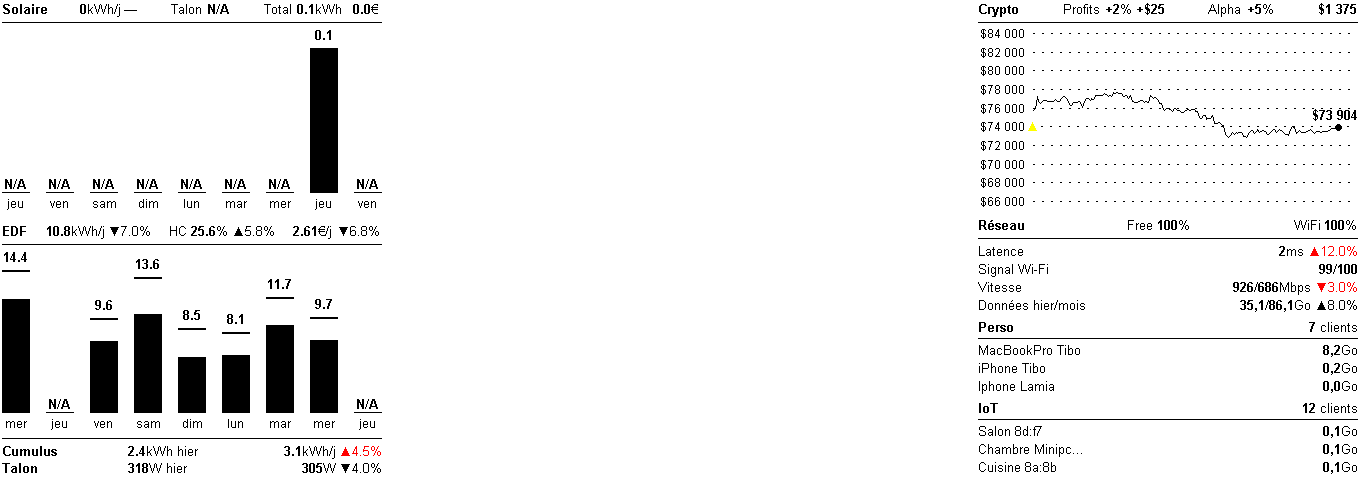
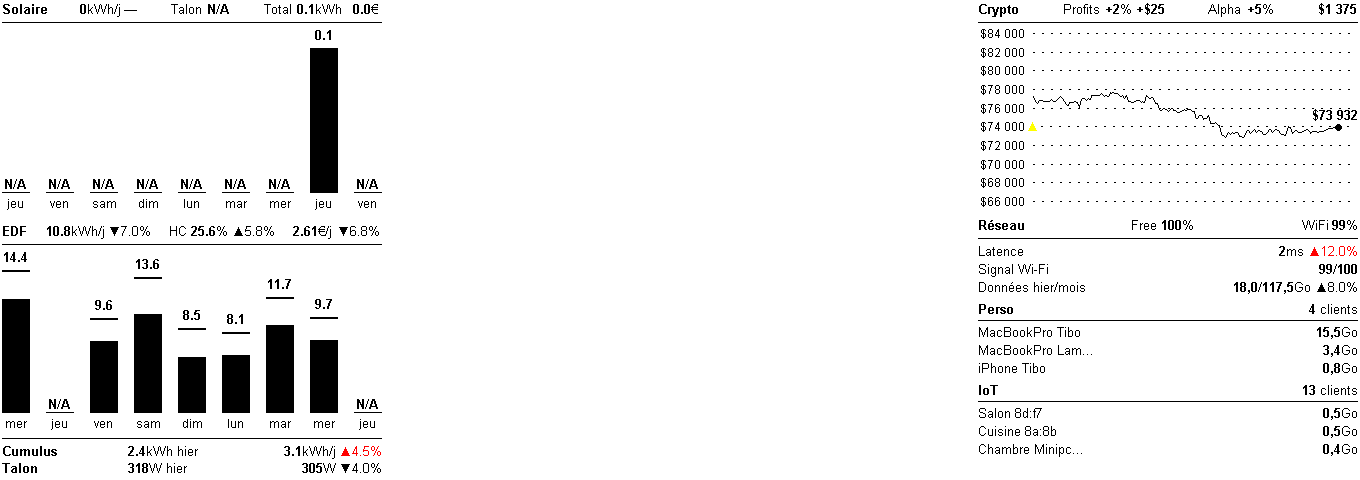
fix(unifi): map Réseau panel to the real gateway payload
The aggregated-dashboard payload from the UCG Ultra has a different shape
than the code assumed, so latency, month usage and the top-client traffic
all resolved to their defaults (0). Re-map every field to the real paths:

- ISP name: wan_routability_info[0].isp_name
- ISP health %: fraction of internet.health_history samples without downtime
- latency: average avg_latency_ms over wan_activity WAN history
- Wi-Fi %: wifi_technology satisfaction, weighted by station count
- month usage: summed from the daily.gw report (dashboard has no monthly counter)
- top clients: rx_bytes + tx_bytes (active-clients has no usage_bytes)

Drop the Vitesse row: the gateway returns isp_metrics: no_data (no speed
test), so the field had no source. Update the preview sample accordingly.

diff --git a/app/integrations/unifi/__init__.py b/app/integrations/unifi/__init__.py
@@ -33,7 +33,6 @@ _last_unifi_time = ""
 # Snapshot columns that carry a ▲▼ trend, paired with the panel key they fill.
 _TREND_COLUMNS = (
     ("usage_bytes", "usage_trend"),
-    ("speed_dl", "speed_trend"),
     ("latency_ms", "latency_trend"),
     ("isp_pct", "isp_trend"),
     ("wifi_pct", "wifi_trend"),
@@ -95,9 +94,9 @@ def _snapshot(snap: dict):
     conn = db.connect()
     conn.execute(
         """INSERT OR REPLACE INTO daily_unifi
-           (date, usage_bytes, speed_dl, latency_ms, isp_pct, wifi_pct, fetched_at)
-           VALUES (?, ?, ?, ?, ?, ?, ?)""",
-        (today, snap.get("usage_bytes"), snap.get("speed_dl"), snap.get("latency_ms"),
+           (date, usage_bytes, latency_ms, isp_pct, wifi_pct, fetched_at)
+           VALUES (?, ?, ?, ?, ?, ?)""",
+        (today, snap.get("usage_bytes"), snap.get("latency_ms"),
          snap.get("isp_pct"), snap.get("wifi_pct"), now),
     )
     conn.commit()
@@ -155,13 +154,18 @@ def _short(name: str, limit: int = 15) -> str:
     return name if len(name) <= limit else name[: limit - 1] + "…"
 
 
+def _client_bytes(c: dict) -> int:
+    """Session traffic for a client (rx+tx); active-clients has no usage_bytes."""
+    return int((c.get("rx_bytes", 0) or 0) + (c.get("tx_bytes", 0) or 0))
+
+
 def _network(clients: list, ssid: str, label: str) -> dict:
     """Client count + top-3 by total traffic for one SSID (wireless only)."""
     members = [c for c in clients if not c.get("is_wired") and c.get("essid") == ssid]
-    members.sort(key=lambda c: c.get("usage_bytes", 0) or 0, reverse=True)
+    members.sort(key=_client_bytes, reverse=True)
     top = [
         (_short(c.get("display_name") or c.get("hostname") or c.get("mac", "?")),
-         _gb(c.get("usage_bytes", 0)))
+         _gb(_client_bytes(c)))
         for c in members[:3]
     ]
     return {"label": label, "count": len(members), "top": top}
@@ -179,44 +183,48 @@ def build_unifi_panel(raw: dict, ssids: dict) -> dict | None:
     if not isinstance(dash, dict) or not isinstance(clients, list):
         return None
 
-    # --- Internet (ISP) quality: WAN uptime over the window + link state.
-    isp_name = (_dig(dash, "wan", "wan_details", 0, "isp", "name", default="") or "").split(" ")[0]
-    link_up = _dig(dash, "wan", "wan_details", 0, "status", "up", default=True)
-    uptime = _dig(dash, "wan_history", "wan_history_details", 0, "uptime")
-    isp_pct = round(uptime) if uptime is not None else (100 if link_up else 0)
+    # --- Internet (ISP): provider name + health from the routability widget and
+    # the per-sample health history (each sample flags WAN downtime over the
+    # dashboard's ~24h window).
+    isp_name = (_dig(dash, "wan_routability_info", 0, "isp_name", default="") or "").split(" ")[0]
+    history = _dig(dash, "internet", "health_history", default=[]) or []
+    link_up = not (history[-1].get("wan_downtime") if history else False)
+    if history:
+        good = sum(1 for h in history if not h.get("wan_downtime"))
+        isp_pct = round(good / len(history) * 100)
+    else:
+        isp_pct = 100 if link_up else 0
     isp_bad = (not link_up) or isp_pct < HEALTH_BAD_PCT
 
-    # --- Internet latency: worst service ping, else the speed-test latency.
-    lats = [s.get("latency") for s in
-            (_dig(dash, "wan", "wan_details", 0, "stats", "service_latencies", default=[]) or [])
-            if s.get("latency") is not None]
-    speed = next((d for d in (_dig(dash, "speed_test", "data", default=[]) or [])
-                  if d.get("interface_name")), {})
-    latency_ms = max(lats) if lats else (speed.get("latency_ms", 0) or 0)
+    # --- Internet latency: average WAN latency over the dashboard window.
+    wan_hist = _dig(dash, "wan_activity", "activity_by_network_group", "WAN", "history",
+                    default=[]) or []
+    lats = [h.get("avg_latency_ms") for h in wan_hist if h.get("avg_latency_ms") is not None]
+    latency_ms = round(sum(lats) / len(lats)) if lats else 0
 
-    # --- Speed test (last successful run): download / upload Mbps.
-    speed_dl = round(speed.get("download_mbps", 0) or 0)
-    speed_ul = round(speed.get("upload_mbps", 0) or 0)
-
-    # --- Wi-Fi quality: weakest connectivity ratio over all radios.
-    attempts = next((rc.get("attempts", {}) for rc in
-                     (_dig(dash, "wifi_connectivity", "radio_connectivity", default=[]) or [])
-                     if rc.get("radio_filter") == "all"), {})
-    ratios = [attempts.get(k) for k in
-              ("success_ratio", "association_ratio", "authentication_ratio", "dhcp_ratio", "dns_ratio")
-              if attempts.get(k) is not None]
-    wifi_pct = round(min(ratios)) if ratios else 100
+    # --- Wi-Fi quality: per-standard satisfaction averaged, weighted by the
+    # number of stations (a lightly-used standard shouldn't drag the figure down).
+    wt = [s for s in (_dig(dash, "wifi_technology", "summary", default=[]) or [])
+          if s.get("satisfaction") is not None]
+    sta_total = sum(s.get("num_sta", 0) or 0 for s in wt)
+    if sta_total:
+        wifi_pct = round(sum(s["satisfaction"] * (s.get("num_sta", 0) or 0) for s in wt) / sta_total)
+    elif wt:
+        wifi_pct = round(sum(s["satisfaction"] for s in wt) / len(wt))
+    else:
+        wifi_pct = 100
     wifi_bad = wifi_pct < HEALTH_BAD_PCT
     # Detailed Wi-Fi quality: the average per-client experience score (0-100).
     exp = [c.get("wifi_experience_score") for c in clients
            if not c.get("is_wired") and c.get("wifi_experience_score")]
     wifi_exp_text = f"{round(sum(exp) / len(exp))}/100" if exp else "—"
 
-    # --- Data usage: yesterday (daily report, best-effort) / current month.
-    month_bytes = _dig(dash, "wan", "wan_details", 0, "stats", "monthly_bytes", default=0)
-    yesterday_bytes = _yesterday_wan_bytes(raw.get("daily"))
-    if yesterday_bytes is None:  # report unavailable -> rolling 24h window from the dashboard
-        summary = _dig(dash, "wan_activity", "total_activity", "summary", default={})
+    # --- Data usage: yesterday + current-month total, both from the daily report
+    # (the aggregated dashboard only covers a 24h window, no monthly counter).
+    yesterday_bytes, month_bytes = _usage_from_daily(raw.get("daily"))
+    if yesterday_bytes is None:  # report unavailable -> 24h WAN total from the dashboard
+        summary = _dig(dash, "wan_activity", "activity_by_network_group", "WAN", "summary",
+                       default={})
         yesterday_bytes = (summary.get("rx_bytes", 0) or 0) + (summary.get("tx_bytes", 0) or 0)
 
     return {
@@ -225,33 +233,42 @@ def build_unifi_panel(raw: dict, ssids: dict) -> dict | None:
         "wifi_pct": wifi_pct, "wifi_bad": wifi_bad, "wifi_trend": None,
         "wifi_exp_text": wifi_exp_text,
         # Detail rows: numeric strings only — the renderer appends the unit.
-        "latency_val": str(round(latency_ms)), "latency_trend": None,
-        "speed_dl": str(speed_dl), "speed_ul": str(speed_ul), "speed_trend": None,
+        "latency_val": str(latency_ms), "latency_trend": None,
         "usage_hier": _gb(yesterday_bytes), "usage_mois": _gb(month_bytes), "usage_trend": None,
         "iot": _network(clients, ssids["iot"], "IoT"),
         "main": _network(clients, ssids["main"], "Perso"),
         # Raw values snapshotted by attach() to compute the 7-day trends.
         "_snap": {
-            "usage_bytes": yesterday_bytes, "speed_dl": speed_dl,
+            "usage_bytes": yesterday_bytes,
             "latency_ms": latency_ms, "isp_pct": isp_pct, "wifi_pct": wifi_pct,
         },
     }
 
 
-def _yesterday_wan_bytes(daily) -> int | None:
-    """Sum of WAN tx+rx for yesterday from the daily.gw report, or None."""
+def _usage_from_daily(daily) -> tuple[int | None, int]:
+    """(yesterday, current-month total) WAN tx+rx bytes from the daily.gw report.
+
+    yesterday is None when the report is unavailable (caller falls back); the
+    month total is the running sum of every day in the current month (today
+    included, partial)."""
     rows = (daily or {}).get("data") if isinstance(daily, dict) else None
     if not rows:
-        return None
-    yesterday = (datetime.now(PARIS_TZ).date() - timedelta(days=1))
+        return None, 0
+    today = datetime.now(PARIS_TZ).date()
+    yesterday = today - timedelta(days=1)
+    y_bytes: int | None = None
+    month_total = 0
     for row in rows:
         ts = row.get("time")
         if ts is None:
             continue
         day = datetime.fromtimestamp(ts / 1000, PARIS_TZ).date()
+        day_bytes = int((row.get("wan-tx_bytes", 0) or 0) + (row.get("wan-rx_bytes", 0) or 0))
         if day == yesterday:
-            return int((row.get("wan-tx_bytes", 0) or 0) + (row.get("wan-rx_bytes", 0) or 0))
-    return None
+            y_bytes = day_bytes
+        if (day.year, day.month) == (today.year, today.month):
+            month_total += day_bytes
+    return y_bytes, month_total
 
 
 def status() -> dict:

diff --git a/scripts/gen_preview.py b/scripts/gen_preview.py
@@ -66,15 +66,14 @@ if data.get("talon", {}).get("yesterday_text") in (None, "N/A"):
 if "unifi" not in data:
     data["unifi"] = {
         "isp_name": "Free", "isp_pct": 100, "isp_bad": False, "isp_trend": None,
-        "wifi_pct": 100, "wifi_bad": False, "wifi_trend": None,
+        "wifi_pct": 99, "wifi_bad": False, "wifi_trend": None,
         "wifi_exp_text": "99/100",
         "latency_val": "2", "latency_trend": 12.0,
-        "speed_dl": "926", "speed_ul": "686", "speed_trend": -3.0,
-        "usage_hier": "35,1", "usage_mois": "86,1", "usage_trend": 8.0,
-        "iot": {"label": "IoT", "count": 12, "top": [
-            ("Salon 8d:f7", "0,1"), ("Chambre Minipc…", "0,1"), ("Cuisine 8a:8b", "0,1")]},
-        "main": {"label": "Perso", "count": 7, "top": [
-            ("MacBookPro Tibo", "8,2"), ("iPhone Tibo", "0,2"), ("Iphone Lamia", "0,0")]},
+        "usage_hier": "18,0", "usage_mois": "117,5", "usage_trend": 8.0,
+        "iot": {"label": "IoT", "count": 13, "top": [
+            ("Salon 8d:f7", "0,5"), ("Cuisine 8a:8b", "0,5"), ("Chambre Minipc…", "0,4")]},
+        "main": {"label": "Perso", "count": 4, "top": [
+            ("MacBookPro Tibo", "15,5"), ("MacBookPro Lam…", "3,4"), ("iPhone Tibo", "0,8")]},
     }
 
 print("days:", len(data.get("days", [])),

diff --git a/app/rendering/renderer.py b/app/rendering/renderer.py
@@ -329,8 +329,8 @@ def _draw_bottom_table(draw, fonts, rows, bottom_h) -> None:
 def _draw_unifi_panel(draw, fonts, unifi, region_top, region_bottom) -> None:
     """Draw the "Réseau" panel in the bottom-right column (under the crypto grid):
     a title banner with internet/Wi-Fi health (each with a ▲▼ trend), detail rows
-    (latency, Wi-Fi signal, speed test, data usage — values with their unit in
-    regular weight, glued to the bold number), then a top-3 clients mini-table per
+    (latency, Wi-Fi signal, data usage — values with their unit in regular weight,
+    glued to the bold number), then a top-3 clients mini-table per
     network (main Wi-Fi first, then IoT) with its client count."""
     width = MAX_DAYS * (BAR_WIDTH + BAR_GAP) - BAR_GAP
     x = WIDTH - CHART_LEFT - width
@@ -392,11 +392,6 @@ def _draw_unifi_panel(draw, fonts, unifi, region_top, region_bottom) -> None:
               y, unifi.get("latency_trend"), invert_bad=True)
     y += row_h
     value_row("Signal Wi-Fi", [(unifi.get("wifi_exp_text", ""), "bold", BLACK)], y)
-    y += row_h
-    value_row("Vitesse",
-              [(unifi.get("speed_dl", ""), "bold", BLACK), ("/", "regular", BLACK),
-               (unifi.get("speed_ul", ""), "bold", BLACK), ("Mbps", "regular", BLACK)],
-              y, unifi.get("speed_trend"), invert_bad=False)
     y += row_h
     value_row("Données hier/mois",
               [(unifi.get("usage_hier", ""), "bold", BLACK), ("/", "regular", BLACK),